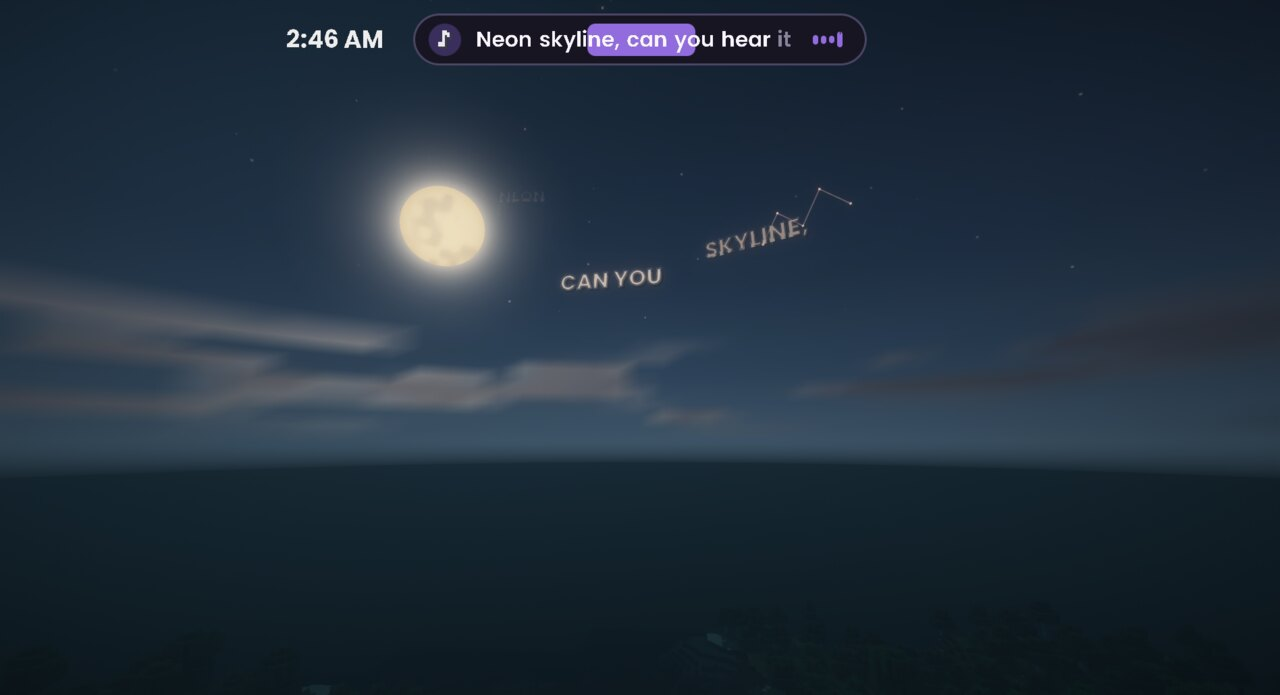
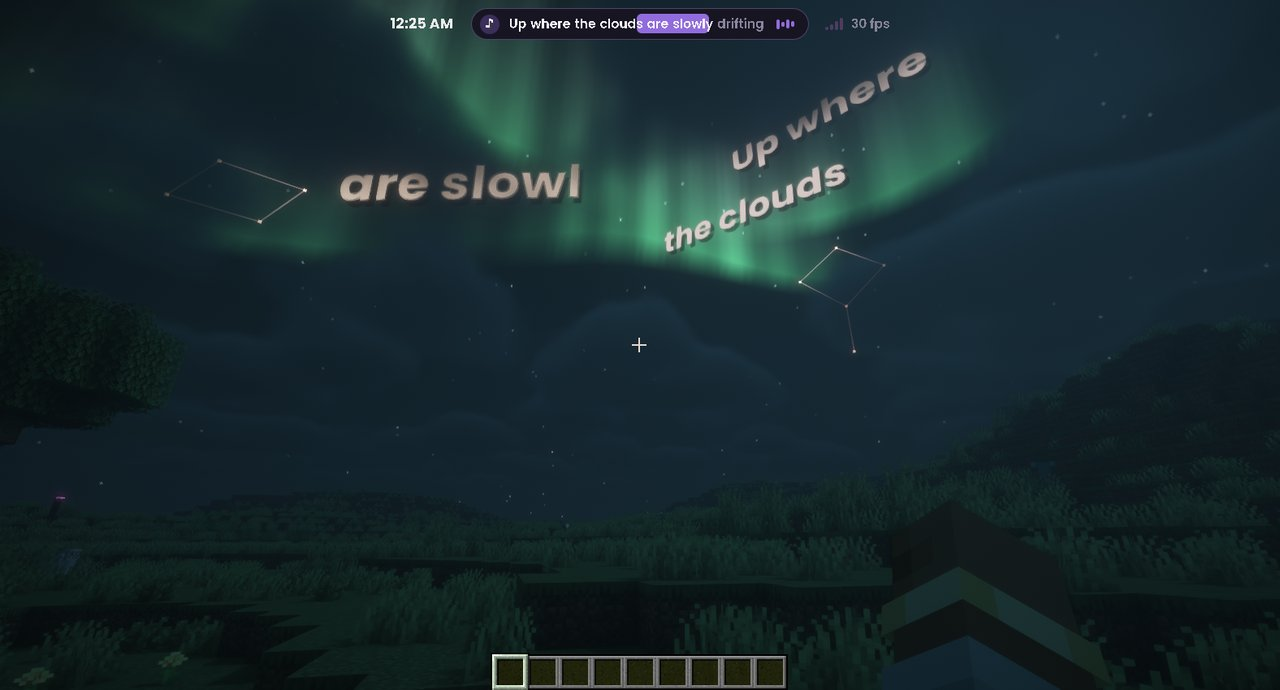
README: new pictures of World words, a hat, settings search and the library

diff --git a/README.md b/README.md
@@ -46,9 +46,11 @@ Download it from the [Releases page](https://github.com/arbelonson-source/belis-
 | ![Synthwave sky](docs/synthwave.jpg) | ![Moonlight sky](docs/moonlight.jpg) |
 | Synthwave sky, with shaders | Moonlight sky, with shaders |
 | ![Eclipse sky](docs/eclipse.jpg) | ![World layout](docs/world-layout.jpg) |
-| Eclipse sky, with shaders | World layout: words placed around you |
-| ![Floating mode](docs/floating.jpg) | ![The settings screen](docs/settings.jpg) |
-| Floating mode, close by | The settings screen |
+| Eclipse sky, with shaders | World layout: words flowing across the aurora |
+| ![Floating mode](docs/floating.jpg) | ![The settings screen, searching for a setting](docs/settings.jpg) |
+| Floating mode, close by | The settings screen, searching for "glow" |
+| ![A crown hat with words around it](docs/hat.jpg) | ![The song library](docs/library.jpg) |
+| A crown hat, seen from behind | The song library (made-up songs shown) |
 
 ## Install
 
